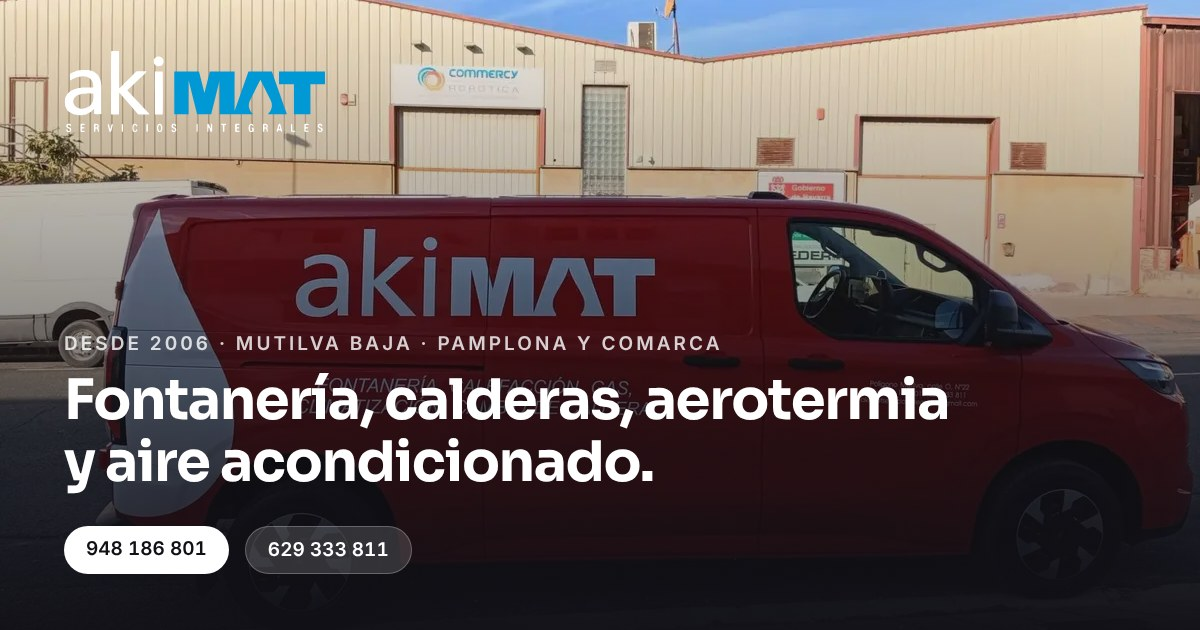
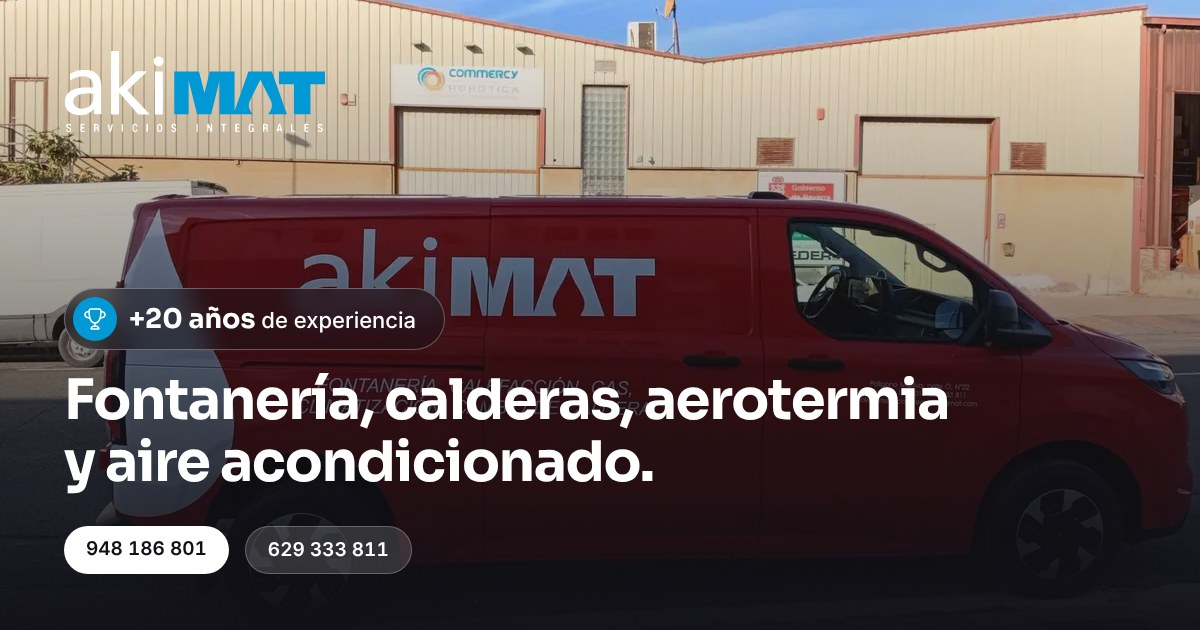
Make the experience and key figures stand out, and tone the page with more gray
- Hero: replace the small eyebrow with a "+20 años de experiencia" badge
  (the eyebrow text next to it covered the van lettering).
- Turn the facts strip into a dark figures band attached to the hero: +20
  years, 4 h on average to change a boiler and a 100 % electric fleet, with
  counters that run when the band scrolls into view (the final numbers are
  in the HTML) and a quote button.
- Darken the soft gray used by the alternate sections so the page no longer
  reads as one long white block.
- Map: support exact coordinates for the pin (location.coords), because
  Google geocodes the street address to another street of the estate; they
  still have to be filled in.
- Sharing image, meta description and footer text now lead with the
  experience too.

Claude-Session: https://claude.ai/code/session_017jNJAhWNdrQag3WRgRtfcq

Changed region(s): [[0.0308, 0.4524, 0.5858, 0.573]]

diff --git a/components/sections/destacados.tsx b/components/sections/destacados.tsx
@@ -1,66 +1,95 @@
-import { HugeiconsIcon } from "@hugeicons/react"
-import {
-  Award01Icon,
-  FlashIcon,
-  Invoice01Icon,
-  Timer02Icon,
-} from "@hugeicons/core-free-icons"
+import { Counter } from "@/components/counter"
 import { Reveal } from "@/components/reveal"
-import { boilerSwap, business, serviceArea } from "@/lib/site"
+import { Button } from "@/components/ui/button"
+import { WhatsAppIcon } from "@/components/whatsapp-button"
+import { business, serviceArea, whatsappLink } from "@/lib/site"
 
-// Cuatro datos de un vistazo, bajo la cabecera. Solo cosas que constan: el año
-// y la flota salen de su rotulación; el tiempo del cambio de caldera lo da akiMAT.
-const highlights = [
+// Las cifras de akiMAT, en grande, pegadas a la cabecera. Solo cosas que
+// constan: los años y la flota salen de su rotulación; el tiempo del cambio de
+// caldera lo da akiMAT y siempre se dice "de media".
+const stats = [
   {
-    icon: Timer02Icon,
-    title: `Caldera nueva en ${boilerSwap}`,
-    text: "Te la cambiamos en el día",
+    prefix: "+",
+    value: business.experienceYears,
+    unit: "",
+    label: "años de experiencia",
+    text: `Desde ${business.founded} en ${serviceArea.summary}`,
   },
   {
-    icon: Award01Icon,
-    title: `Desde ${business.founded}`,
-    text: `En ${serviceArea.summary}`,
+    prefix: "",
+    value: business.boilerSwapHours,
+    unit: "h",
+    label: "de media en cambiar una caldera",
+    text: "El mismo día tienes calefacción",
   },
   {
-    icon: FlashIcon,
-    title: "Flota eléctrica",
+    prefix: "",
+    value: 100,
+    unit: "%",
+    label: "flota eléctrica",
     text: "Cero emisiones en cada visita",
-  },
-  {
-    icon: Invoice01Icon,
-    title: "Presupuesto sin compromiso",
-    text: "Por WhatsApp o por teléfono",
   },
 ]
 
 export function Destacados() {
   return (
     <section
-      aria-label={`${business.name} en cuatro datos`}
-      className="border-b border-line bg-white"
+      aria-label={`${business.name} en cifras`}
+      className="border-t border-white/10 bg-ink py-12 text-white md:py-16"
     >
-      <ul className="container-x grid grid-cols-2 gap-x-4 gap-y-6 py-8 md:py-10 lg:grid-cols-4 lg:gap-x-0 lg:divide-x lg:divide-line">
-        {highlights.map(({ icon, title, text }, i) => (
-          <li key={title} className="lg:px-8 lg:first:pl-0 lg:last:pr-0">
+      <div className="container-x grid grid-cols-1 gap-10 lg:grid-cols-[repeat(3,1fr)_1.15fr] lg:items-stretch lg:gap-0">
+        <dl className="contents">
+          {stats.map(({ prefix, value, unit, label, text }, i) => (
             <Reveal
-              delay={i * 0.06}
-              className="flex items-center gap-3 sm:gap-4"
+              key={label}
+              delay={i * 0.08}
+              className="flex items-center gap-5 lg:flex-col lg:items-start lg:gap-3 lg:border-l lg:border-white/10 lg:px-8 lg:first:border-l-0 lg:first:pl-0"
             >
-              <span className="flex size-10 shrink-0 items-center justify-center rounded-full bg-brand-primary/10 text-brand-text sm:size-11">
-                <HugeiconsIcon icon={icon} size={20} />
-              </span>
-              <span className="flex flex-col gap-0.5">
-                <span className="font-heading text-[15px] leading-tight font-semibold text-ink sm:text-base">
-                  {title}
+              <dt className="min-w-[8.75rem] font-heading text-6xl leading-none font-bold tracking-tight whitespace-nowrap tabular-nums lg:min-w-0 lg:text-7xl">
+                {prefix && <span className="text-brand-primary">{prefix}</span>}
+                <Counter to={value} />
+                {unit && (
+                  <span className="ml-1.5 text-[0.55em] text-brand-primary">
+                    {unit}
+                  </span>
+                )}
+              </dt>
+              <dd className="flex flex-col gap-1">
+                <span className="font-heading text-lg leading-snug font-semibold lg:text-xl">
+                  {label}
                 </span>
-                <span className="hidden text-sm text-ink-soft sm:block">
-                  {text}
-                </span>
-              </span>
+                <span className="text-sm text-white/60">{text}</span>
+              </dd>
             </Reveal>
-          </li>
-        ))}
-      </ul>
+          ))}
+        </dl>
+
+        {/* Y, para cerrar, la forma de pedirlo */}
+        <Reveal delay={0.24} className="lg:self-center lg:pl-8">
+          <div className="flex flex-col gap-4 rounded-3xl border border-white/15 bg-white/[0.06] p-6">
+            <p className="flex flex-col gap-1">
+              <span className="font-heading text-xl leading-snug font-semibold">
+                Presupuesto sin compromiso
+              </span>
+              <span className="text-sm text-white/60">
+                Por WhatsApp o por teléfono
+              </span>
+            </p>
+            <Button asChild variant="light" size="lg" className="w-full">
+              <a
+                href={whatsappLink(
+                  "Hola akiMAT, me gustaría pedir presupuesto."
+                )}
+                target="_blank"
+                rel="noopener noreferrer"
+              >
+                <WhatsAppIcon className="size-5" />
+                Pedir presupuesto
+              </a>
+            </Button>
+          </div>
+        </Reveal>
+      </div>
     </section>
   )
 }

diff --git a/lib/site.ts b/lib/site.ts
@@ -27,6 +27,11 @@ export const business = {
   // TODO: completar con los datos de inscripción (tomo, folio y hoja).
   registry: "Inscrita en el Registro Mercantil de Navarra",
   founded: 2006,
+  /**
+   * Años de experiencia que se anuncian ("+20 años"). Es un número fijo y no
+   * un cálculo con la fecha: súbelo a 25 cuando los cumplan, en 2031.
+   */
+  experienceYears: 20,
   tagline: "Servicios integrales",
   /** Horas que tardan de media en cambiar una caldera (dato de akiMAT). */
   boilerSwapHours: 4,
@@ -69,15 +74,21 @@ export const business = {
 export const fullAddress = `${business.address.street}, ${business.address.postalCode} ${business.address.city} (${business.address.region})`
 
 /**
- * Google Maps. Se busca por la dirección (no por el nombre de la empresa) para
- * que el marcador caiga en la nave aunque la ficha de Google siga con la
- * dirección antigua.
- * TODO: comprobar el marcador; si no cae en la nave 22, sustituir `embed` por
- * el enlace de "Compartir → Insertar un mapa" de Google Maps.
+ * Punto exacto de la nave. Google no sitúa bien la dirección: la búsqueda cae
+ * en otra parte del polígono, así que el mapa necesita las coordenadas.
+ * TODO: pegar aquí las de Google Maps (clic derecho sobre la nave → clic en
+ * los números para copiarlos), por ejemplo `{ lat: 42.78, lng: -1.61 }`.
+ * Mientras sea `null`, el mapa busca por la dirección y el marcador NO es fiable.
  */
-const mapsQuery = encodeURIComponent(
-  "Polígono Industrial Mutilva Baja, Calle O, 22, 31192 Mutilva, Navarra"
-)
+export const location: { coords: { lat: number; lng: number } | null } = {
+  coords: null,
+}
+
+const mapsQuery = location.coords
+  ? `${location.coords.lat},${location.coords.lng}`
+  : encodeURIComponent(
+      "Polígono Industrial Mutilva Baja, Calle O, 22, 31192 Mutilva, Navarra"
+    )
 
 export const maps = {
   /** Abre la nave en Google Maps. */
@@ -85,7 +96,7 @@ export const maps = {
   /** Ruta hasta la nave desde donde esté el visitante. */
   directions: `https://www.google.com/maps/dir/?api=1&destination=${mapsQuery}`,
   /** Mapa incrustado del pie de página. */
-  embed: `https://www.google.com/maps?q=${mapsQuery}&z=16&hl=es&output=embed`,
+  embed: `https://www.google.com/maps?q=${mapsQuery}&z=17&hl=es&output=embed`,
   /**
    * `false`: el mapa se carga cuando el visitante pulsa "Ver mapa", así la web
    * no conecta con Google (ni deja sus cookies) sin que él lo pida.

diff --git a/components/sections/hero.tsx b/components/sections/hero.tsx
@@ -2,12 +2,12 @@
 
 import Image from "next/image"
 import { HugeiconsIcon } from "@hugeicons/react"
-import { Call02Icon } from "@hugeicons/core-free-icons"
+import { Award01Icon, Call02Icon } from "@hugeicons/core-free-icons"
 import vanPhoto from "@/public/fotos/furgoneta-electrica.jpg"
 import BlurText from "@/components/reactbits/BlurText"
 import { Button } from "@/components/ui/button"
 import { WhatsAppIcon } from "@/components/whatsapp-button"
-import { business, serviceArea, whatsappLink } from "@/lib/site"
+import { business, whatsappLink } from "@/lib/site"
 
 export function Hero() {
   return (
@@ -28,12 +28,17 @@ export function Hero() {
       />
 
       <div className="relative z-10 container-x flex flex-col gap-8 pt-40 pb-12 md:pb-16">
-        <p className="text-xs font-semibold tracking-widest text-white/75 uppercase sm:text-sm">
-          <span className="block sm:inline">
-            Desde {business.founded} · {business.address.area}
+        {/* Lo primero que se lee: los años de oficio */}
+        <p className="inline-flex w-fit items-center gap-3 rounded-full border border-white/30 bg-white/15 py-2 pr-6 pl-2 text-base font-medium backdrop-blur-md sm:text-lg">
+          <span className="flex size-10 items-center justify-center rounded-full bg-brand-primary">
+            <HugeiconsIcon icon={Award01Icon} size={21} />
           </span>
-          <span className="hidden sm:inline"> · </span>
-          <span className="block sm:inline">{serviceArea.summary}</span>
+          <span>
+            <span className="font-heading text-xl font-bold sm:text-2xl">
+              +{business.experienceYears} años
+            </span>{" "}
+            de experiencia
+          </span>
         </p>
         <BlurText
           as="h1"

diff --git a/app/layout.tsx b/app/layout.tsx
@@ -4,7 +4,7 @@ import type { Metadata, Viewport } from "next"
 import "./globals.css"
 import { Nav } from "@/components/nav"
 import { cn } from "@/lib/utils"
-import { SITE_URL, business, maps, services } from "@/lib/site"
+import { SITE_URL, business, location, maps, services } from "@/lib/site"
 
 const inter = Inter({ subsets: ["latin"], variable: "--font-sans" })
 
@@ -16,7 +16,7 @@ const sora = Sora({
 
 const title =
   "akiMAT – Fontanería, calderas, aerotermia y aire acondicionado en Pamplona"
-const description = `Fontanería, instalación de calderas, aerotermia y aire acondicionado en Pamplona y comarca. Desde ${business.founded}, ahora en ${business.address.area}. Llama al ${business.phone.display} o al ${business.mobile.display}.`
+const description = `Fontanería, instalación de calderas, aerotermia y aire acondicionado en Pamplona y comarca. Más de ${business.experienceYears} años de experiencia. Llama al ${business.phone.display} o al ${business.mobile.display}.`
 
 export const metadata: Metadata = {
   metadataBase: new URL(SITE_URL),
@@ -85,6 +85,13 @@ const localBusinessSchema = {
     { "@type": "City", name: "Mutilva" },
     { "@type": "AdministrativeArea", name: "Navarra" },
   ],
+  ...(location.coords && {
+    geo: {
+      "@type": "GeoCoordinates",
+      latitude: location.coords.lat,
+      longitude: location.coords.lng,
+    },
+  }),
   hasMap: maps.place,
   openingHoursSpecification: business.openingHoursSchema,
   hasOfferCatalog: {

diff --git a/components/counter.tsx b/components/counter.tsx
@@ -1,0 +1,38 @@
+"use client"
+
+import { useEffect, useRef } from "react"
+import {
+  animate,
+  motion,
+  useInView,
+  useMotionValue,
+  useReducedMotion,
+  useTransform,
+} from "motion/react"
+
+/**
+ * Cifra que cuenta desde cero cuando entra en pantalla. El HTML lleva ya la
+ * cifra final, así que se lee igual sin JavaScript o con "reducir movimiento".
+ */
+export function Counter({ to }: { to: number }) {
+  const ref = useRef<HTMLSpanElement>(null)
+  const count = useMotionValue(to)
+  const rounded = useTransform(count, (value) => Math.round(value))
+  const inView = useInView(ref, { once: true, margin: "0px 0px -12% 0px" })
+  const reduced = useReducedMotion()
+
+  useEffect(() => {
+    if (reduced) return
+    if (!inView) {
+      count.set(0)
+      return
+    }
+    const controls = animate(count, to, {
+      duration: 1.6,
+      ease: [0.22, 1, 0.36, 1],
+    })
+    return () => controls.stop()
+  }, [count, inView, reduced, to])
+
+  return <motion.span ref={ref}>{rounded}</motion.span>
+}

diff --git a/app/globals.css b/app/globals.css
@@ -12,7 +12,7 @@
     --color-ink: #111016;
     --color-ink-soft: #5b6570;
     --color-paper: #ffffff;
-    --color-paper-2: #f3f6f8;
+    --color-paper-2: #e9eef2;
     --color-line: #e5eaee;
 
     --font-heading: var(--font-display);
@@ -67,11 +67,11 @@
     --popover-foreground: #111016;
     --primary: #111016;
     --primary-foreground: #ffffff;
-    --secondary: #f3f6f8;
+    --secondary: #e9eef2;
     --secondary-foreground: #111016;
-    --muted: #f3f6f8;
+    --muted: #e9eef2;
     --muted-foreground: #5b6570;
-    --accent: #f3f6f8;
+    --accent: #e9eef2;
     --accent-foreground: #111016;
     --destructive: oklch(0.577 0.245 27.325);
     --border: #e5eaee;
@@ -87,7 +87,7 @@
     --sidebar-foreground: #111016;
     --sidebar-primary: #111016;
     --sidebar-primary-foreground: #ffffff;
-    --sidebar-accent: #f3f6f8;
+    --sidebar-accent: #e9eef2;
     --sidebar-accent-foreground: #111016;
     --sidebar-border: #e5eaee;
     --sidebar-ring: #0099d6;

diff --git a/components/sections/footer.tsx b/components/sections/footer.tsx
@@ -19,8 +19,8 @@ export function Footer() {
               <Logo className="w-44" />
             </Link>
             <p className="max-w-xs text-sm leading-relaxed text-white/60">
-              Fontanería, calderas, aerotermia y aire acondicionado. Desde{" "}
-              {business.founded} en {serviceArea.summary}.
+              Fontanería, calderas, aerotermia y aire acondicionado. Más de{" "}
+              {business.experienceYears} años en {serviceArea.summary}.
             </p>
           </div>
 

diff --git a/README.md b/README.md
@@ -102,8 +102,11 @@ mapa"**. Hasta entonces la web no conecta con Google, así que sigue sin cookies
 de terceros y sin banner. Los enlaces y el modo de carga están en `maps`
 (`lib/site.ts`):
 
-- `maps.embed`: si el marcador no cae en la nave 22, sustitúyelo por el enlace
-  de "Compartir → Insertar un mapa" de Google Maps.
+- `location.coords`: Google no sitúa bien la dirección (el marcador cae en otra
+  calle del polígono), así que el punto exacto se fija con las coordenadas de la
+  nave: clic derecho sobre ella en Google Maps y clic en los números para
+  copiarlos. Con ellas se generan el mapa, "Cómo llegar" y los datos para
+  Google. **Mientras estén vacías, el marcador no es fiable.**
 - `maps.autoload: true` deja el mapa siempre visible. En ese caso hay que
   añadir un banner de consentimiento y reescribir `/politica-de-cookies`.
 
@@ -131,7 +134,8 @@ Commons Clause (ver `components/reactbits/LICENSE.md`).
 
 - [ ] Confirmar teléfonos, email y que el móvil tiene WhatsApp.
 - [ ] Dominio definitivo (`SITE_URL`, ahora `https://www.akimat.es`).
-- [ ] Comprobar que el marcador del mapa cae en la nave 22 (ver "Mapa de Google").
+- [ ] Poner las coordenadas de la nave en `location.coords` (ver "Mapa de
+      Google"): sin ellas el marcador cae en otra calle.
 - [ ] Poner en `googleReviews.url` el enlace de "Compartir" de la ficha de
       Google y revisar la nota media antes de publicar.
 - [ ] Dirección fiscal para el aviso legal (si no coincide con la nave de Mutilva

diff --git a/CLAUDE.md b/CLAUDE.md
@@ -82,6 +82,11 @@ fotos-sin-usar/              client photos not on the site (kept out of public/)
 - The boiler-change time is the client's own figure
   (`business.boilerSwapHours`, exported as `boilerSwap` = "4 horas de media").
   Always word it as an average, never as a guarantee.
+- "+20 años de experiencia" comes from `business.experienceYears`, a fixed
+  number (founded 2006), not a date calculation: raise it when they turn 25.
+- The map pin needs exact coordinates (`location.coords` in `lib/site.ts`):
+  Google geocodes the street address to the wrong street of the estate. While
+  they are `null` the pin is unreliable.
 - Reviews (`reviews` in `lib/site.ts`) are real Google reviews: keep the text
   verbatim (only fix spacing/stray punctuation), publish first name + surname
   initial only, and keep `googleReviews` (average and count) truthful.
